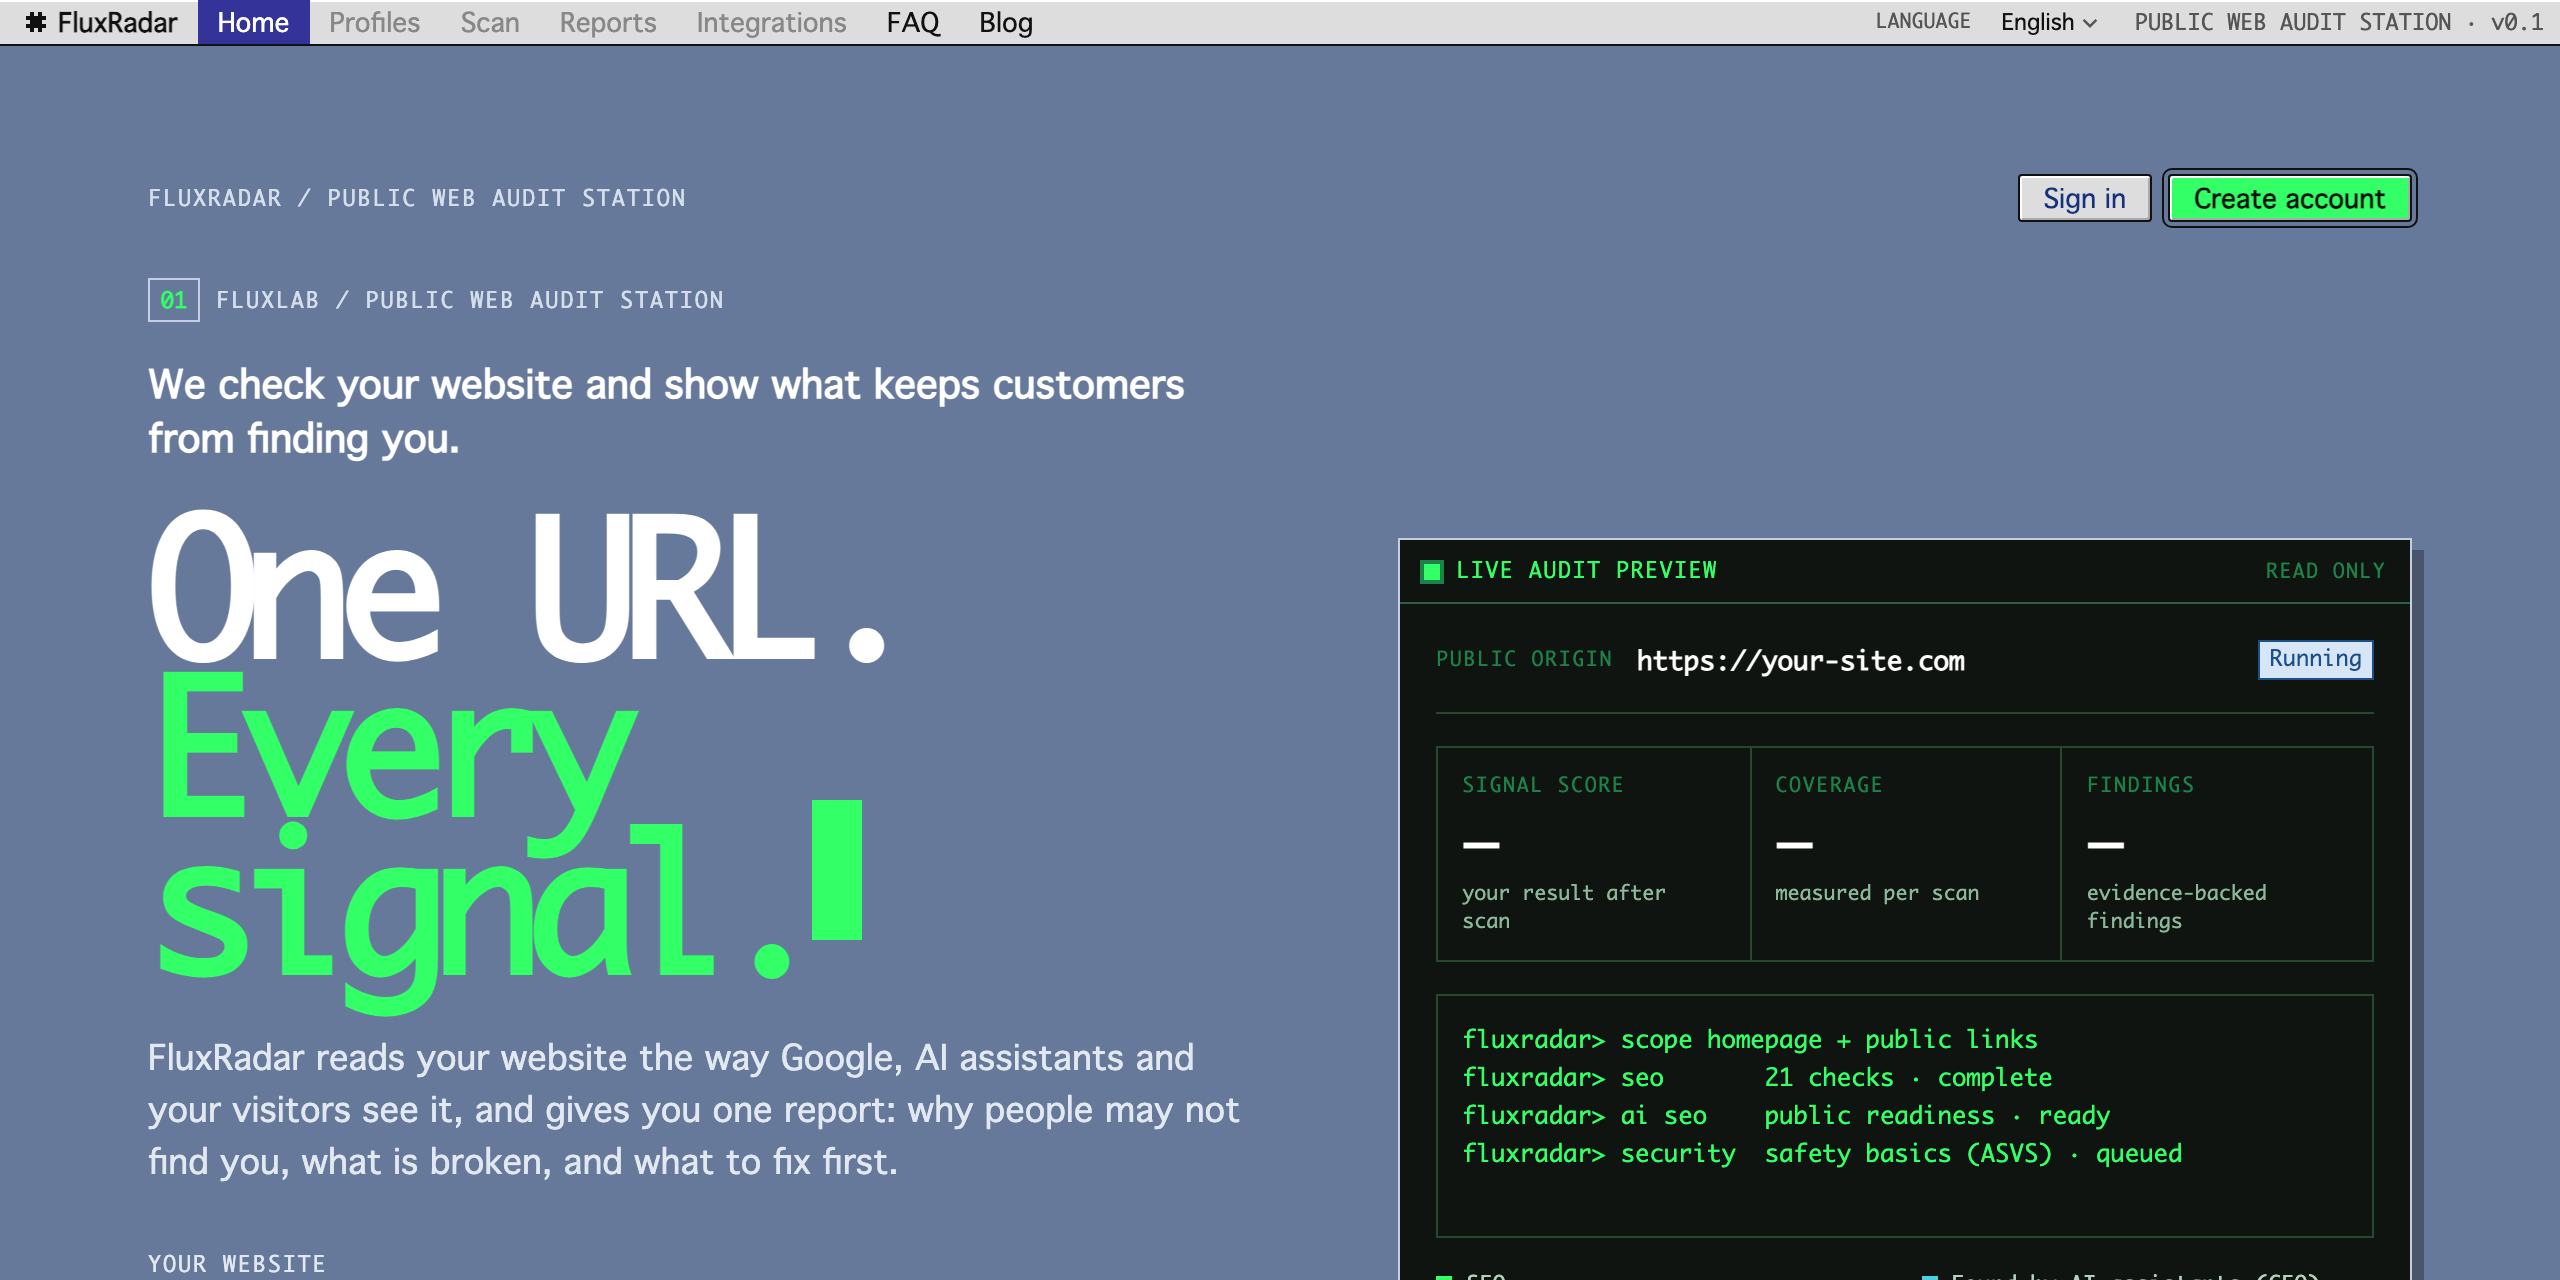
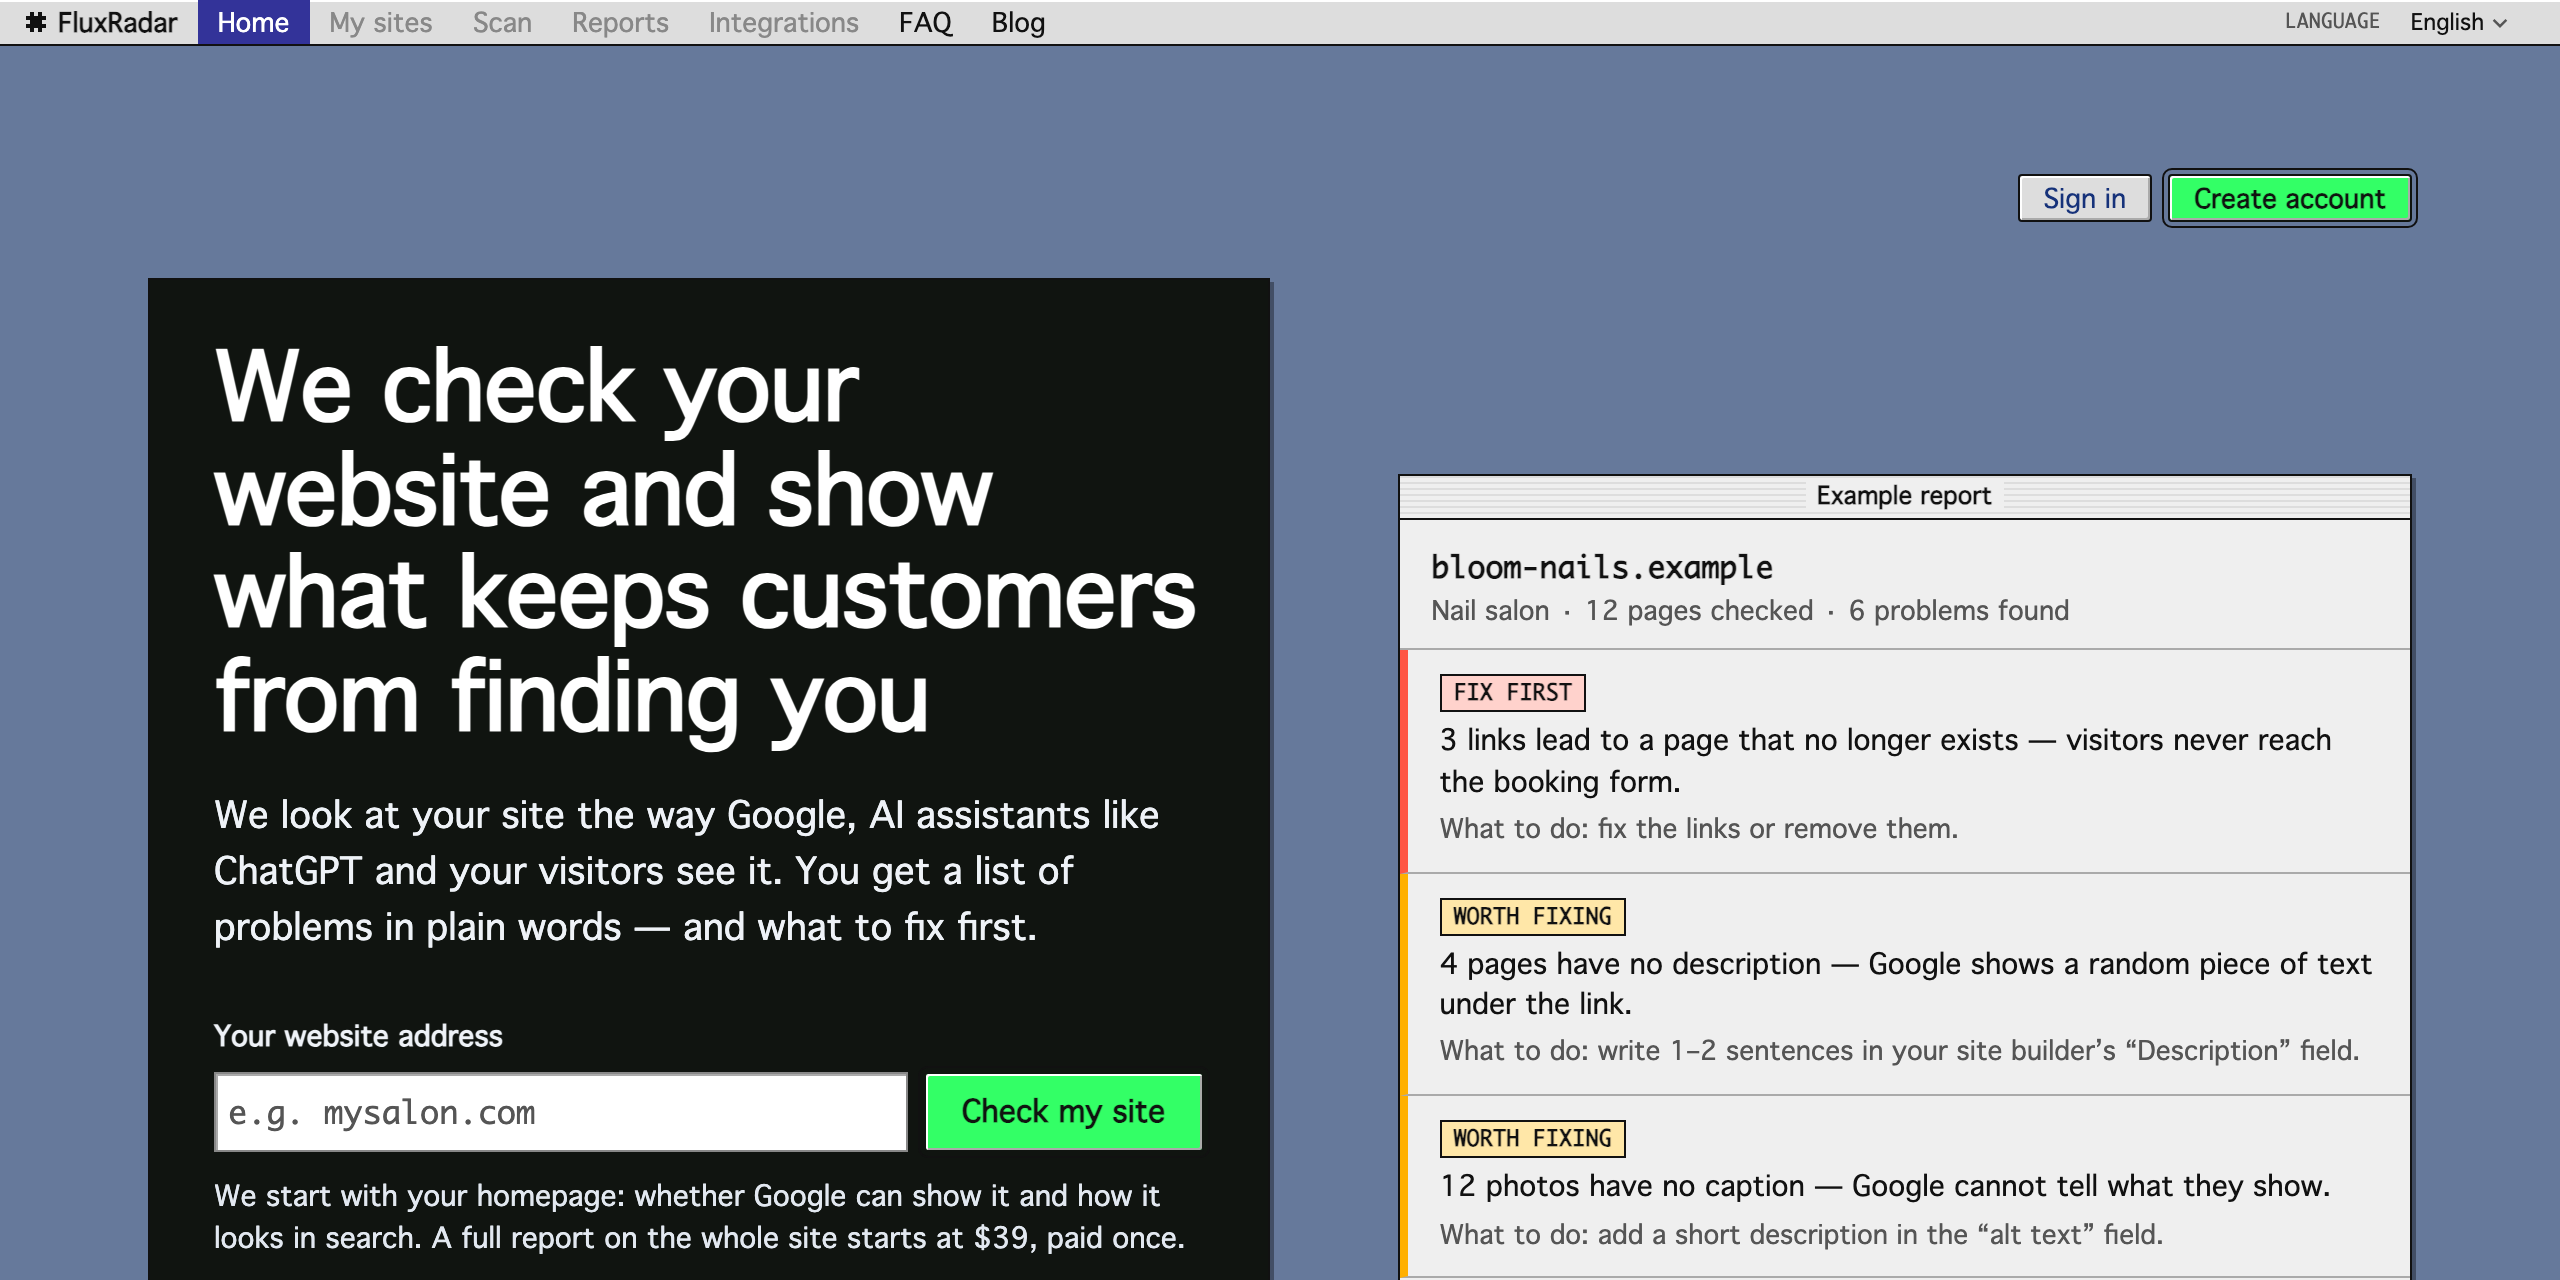
fix(projects): FluxRadar now sells two reports at $39 and $87
FluxRadar dropped Website Audit and lowered its prices on 2026-10-19
(Basic $39, Complete $87). The case study still listed three reports at
$55/$79/$120 and showed the old terminal hero, so the copy, llms-full.txt
and the home and pricing screenshots are updated to the live site.

diff --git a/src/data/projects.ts b/src/data/projects.ts
@@ -8,7 +8,7 @@ export const projects: readonly Project[] = [
     description:
       "A pay-per-scan website audit that shows how Google, AI assistants and visitors see a site: SEO, AI search, security, speed and accessibility in one report.",
     overview:
-      "FluxRadar answers one question for a site owner: why aren't customers finding me, and what should I fix first? You enter a public URL; the crawler reads the site the way Google, AI assistants and visitors do, and the audit runs up to ten modules over it — SEO, AI search visibility (GEO), security, performance, accessibility, reliability, content quality, privacy, UX/conversion and analytics. The report is written in plain words: problems ranked by urgency, each with what to do and a ready-made message to send your developer. Pricing is one-time with no subscription: a free homepage check, then Basic ($55), Website Audit ($79) or Complete ($120). The interface is available in English and Ukrainian.",
+      "FluxRadar answers one question for a site owner: why aren't customers finding me, and what should I fix first? You enter a public URL; the crawler reads the site the way Google, AI assistants and visitors do, and the audit runs up to ten modules over it — SEO, AI search visibility (GEO), security, performance, accessibility, reliability, content quality, privacy, UX/conversion and analytics. The report is written in plain words: problems ranked by urgency, each with what to do and a ready-made message to send your developer. Pricing is one-time with no subscription: a free homepage check, then Basic ($39) or Complete ($87). The interface is available in English and Ukrainian.",
     challenge:
       "Small businesses lose customers without knowing why. SEO tools are monthly subscriptions built for marketers — they bury owners in jargon and hundreds of warnings, and none of them say whether ChatGPT or Claude mention the business when someone asks for a recommendation. Security headers, accessibility and page speed each live in yet another tool.",
     solution:
@@ -55,7 +55,7 @@ export const projects: readonly Project[] = [
       {
         title: "Plain-Language Report",
         description:
-          "Problems ranked by what to fix first, each with a copy-ready message for your developer, plus JSON/CSV export on Website Audit and Complete",
+          "Problems ranked by what to fix first, each with a copy-ready message for your developer, plus JSON/CSV export on Complete",
         icon: "",
       },
       {
@@ -69,7 +69,7 @@ export const projects: readonly Project[] = [
       { label: "Audit Modules", value: "10" },
       { label: "Automated Checks", value: "50+" },
       { label: "AI Providers Supported", value: "4" },
-      { label: "One-Time Report From", value: "$55" },
+      { label: "One-Time Report From", value: "$39" },
     ],
     integrations: [
       "Claude AI",
@@ -85,13 +85,13 @@ export const projects: readonly Project[] = [
     screenshots: [
       {
         src: "/images/projects/fluxradar_01_home.png",
-        title: "One URL, Every Signal",
+        title: "What Keeps Customers From Finding You",
         description:
-          "The landing page explains the product in a sentence: FluxRadar reads a website the way Google, AI assistants and visitors see it, and returns one report. A free homepage check starts from the hero form.",
+          "The first screen says what the product does in plain words and shows a sample of the report beside it. A free homepage check starts from the form, and a full report on the whole site starts at $39.",
         features: [
           "One-sentence promise: what keeps customers from finding you",
-          "Live audit preview of what a scan reads",
-          "Signal score, coverage and findings counters",
+          "A sample report with problems ranked and what to do",
+          "No passwords or site access, no subscription",
           "English and Ukrainian interface",
         ],
       },
@@ -145,13 +145,12 @@ export const projects: readonly Project[] = [
       },
       {
         src: "/images/projects/fluxradar_06_pricing.png",
-        title: "Three One-Time Reports",
+        title: "Two One-Time Reports",
         description:
           "No subscription and no monthly quota: pay once for one scan of one public website and keep the report. A side-by-side table explains which package answers which question.",
         features: [
-          "Basic ($55): SEO and AI search visibility",
-          "Website Audit ($79): the eight site-health modules",
-          "Complete ($120): all ten modules in one report",
+          "Basic ($39): why customers can't find you, in Google and AI assistants",
+          "Complete ($87): all ten modules in one report, with an AI action plan",
           "Free homepage check for any account",
         ],
       },
